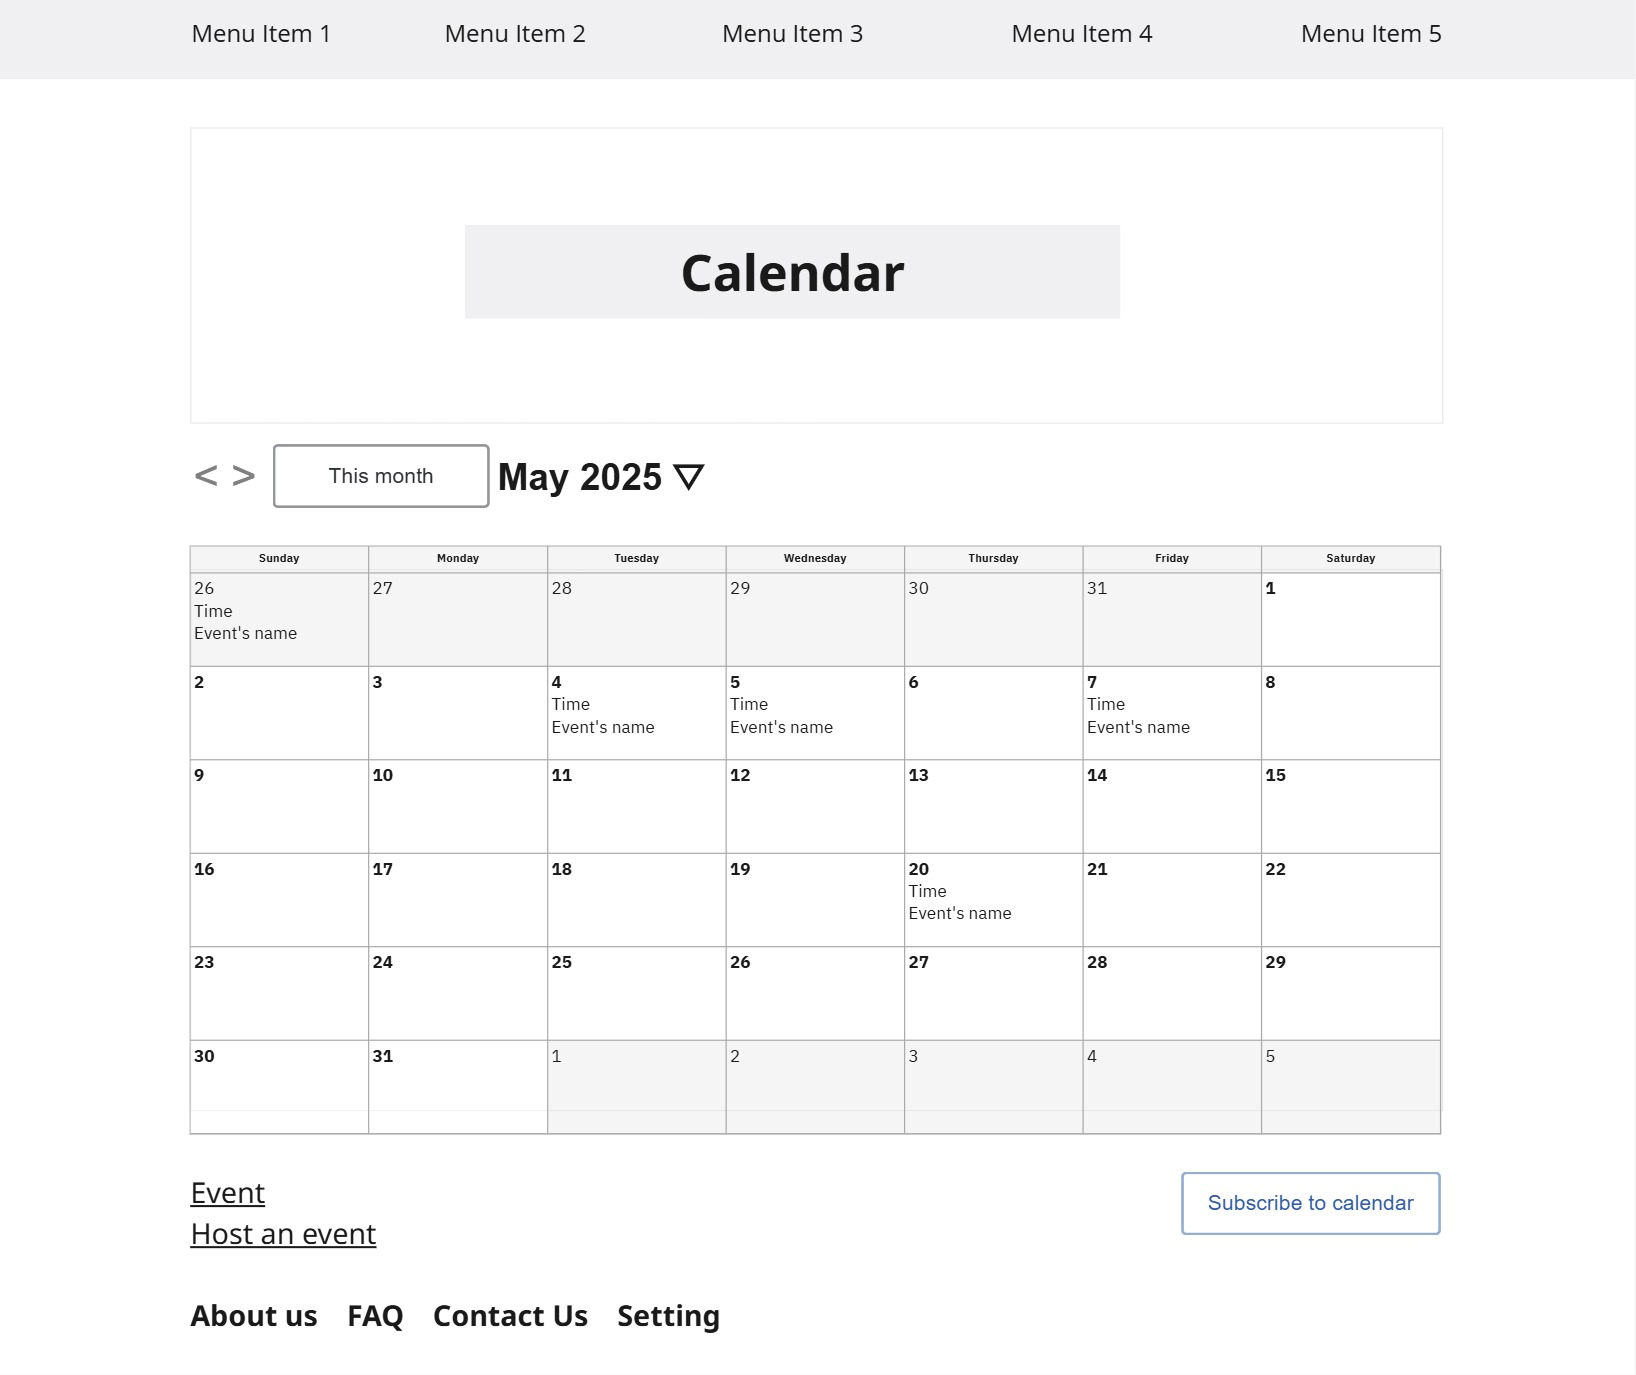
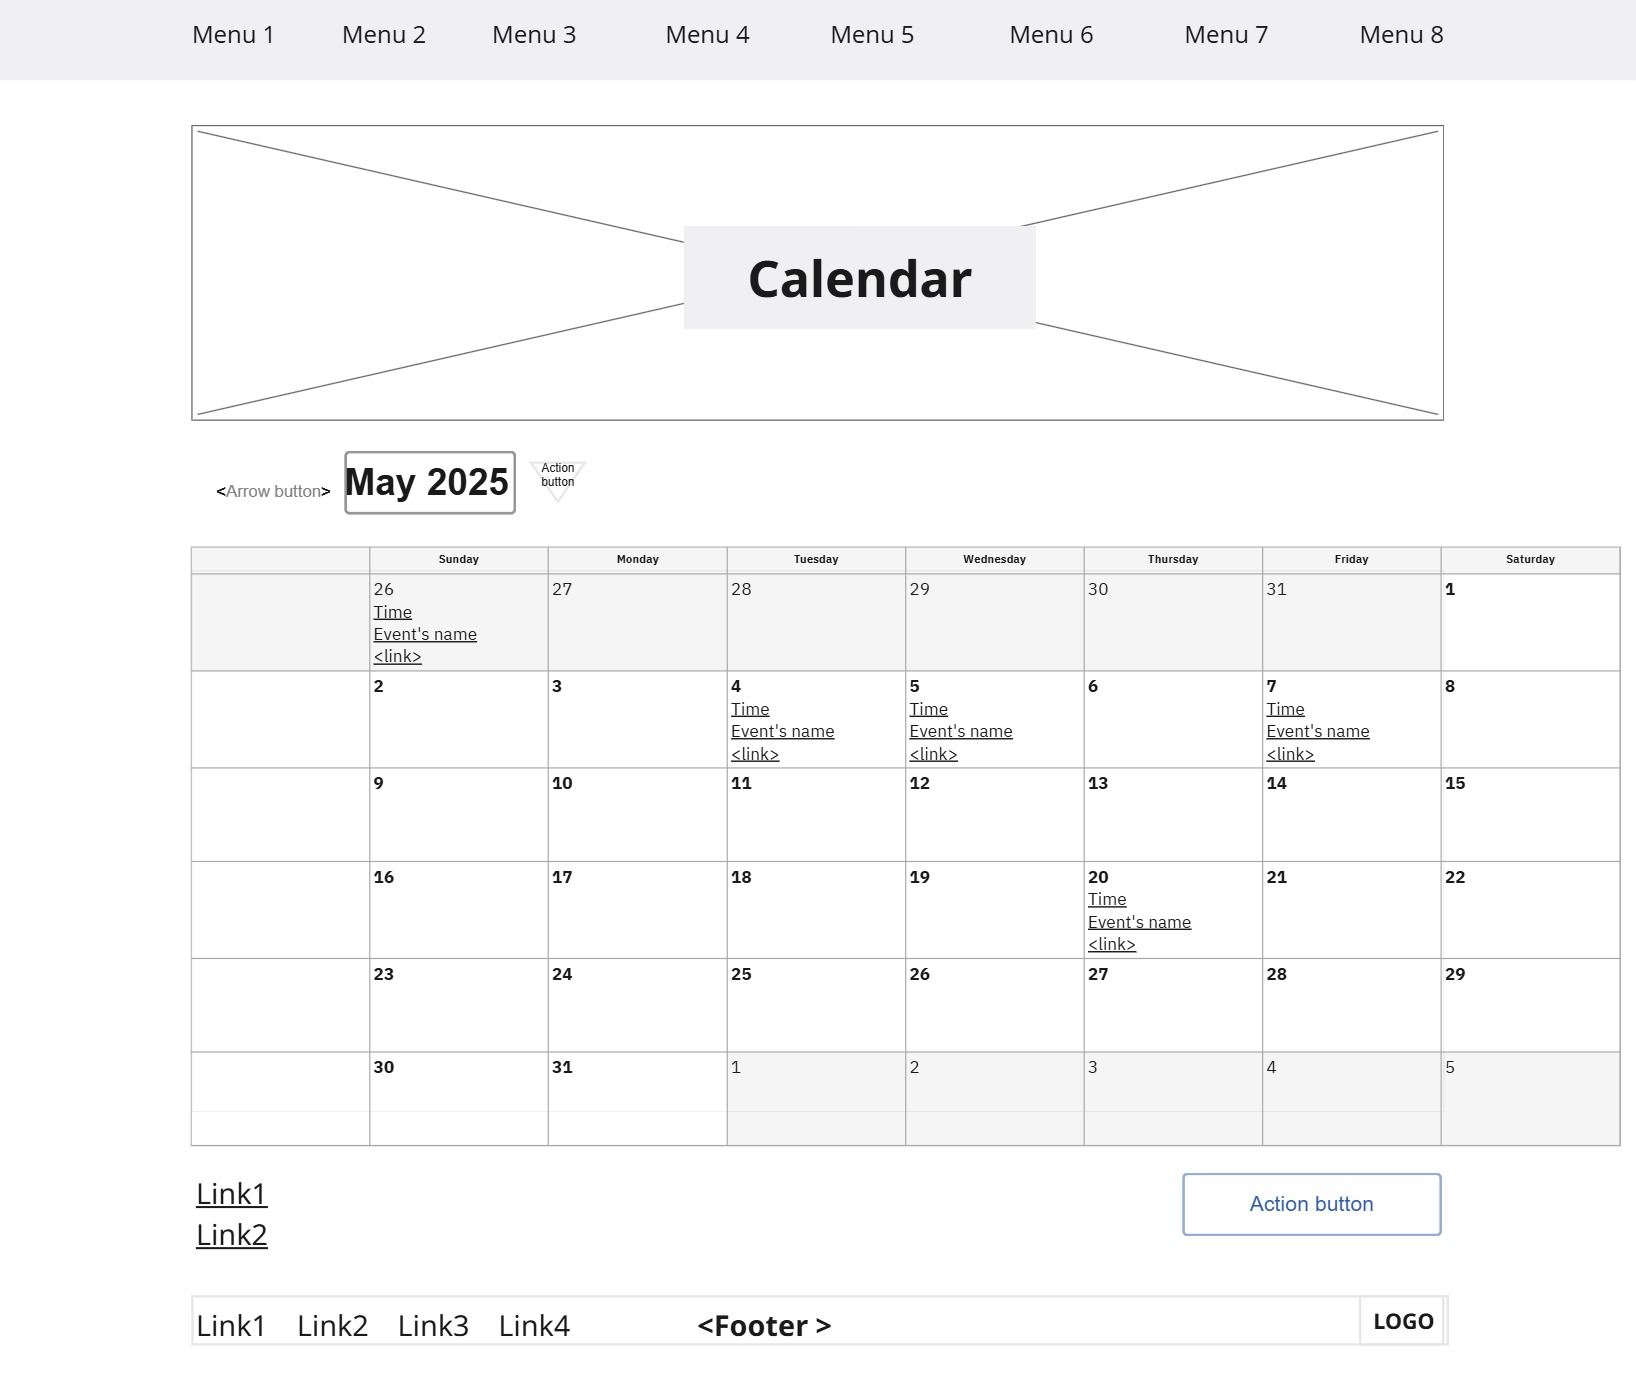
edit behavioural page
Edited some button to suit the future webpage, used hover with the subscribe button.

diff --git a/work_phase_3/visceral_design.html b/work_phase_3/visceral_design.html
@@ -85,19 +85,40 @@
                         <br />
                         <!-- Gallery Container -->
                         <article>
-                            <h2 class="m-t-3">Page Layouts</h2>
+                            <p class="topic">Page Layout</p>
 
                             <!-- Gallery element -->
                             <!-- gallery of small images -->
                             <section class="gallery m-t-3">
                                 <img
                                     src="work_space_3/assets/mobilehomepage.jpg"
-                                    alt="The homepage features an inspiring
+                                    alt="The mobile homepage features an inspiring
+                                handcraft image at the top, showcasing knitting,
+                                crochet, and embroidery. This visual element is
+                                designed to attract users and invite users to
+                                explore the website. Interactive slider
+                                arrows with hover effects allow users to
+                                navigate through the images, enhancing
+                                engagement. A centrally placed Join Now
+                                call-to-action button encourages immediate
+                                interaction and reinforces the sense of
+                                community. The layout supports easy navigation
+                                and encourages further exploration based on user
+                                interests. There are main some main links which can link to other main pages. To ensure accessibility, the color
+                                scheme provides high contrast between the
+                                background and text for improved readability.
+                                Language on the page is kept concise, universal,
+                                and easy to understand—especially for non-native
+                                English speakers."
+                                />
+                                <img
+                                    src="work_space_3/assets/DesktopHomePage.jpg"
+                                    alt="The homepage on desktop, an inspiring
                                 handcraft image at the top, showcasing knitting,
                                 crochet, and embroidery. This visual element is
                                 designed to attract users and invite them to
-                                explore the website further. Interactive slider
-                                arrows with hover effects allow users to
+                                explore the website further. The header includes Menu bar with 8 items. The Interactive slider
+                                arrows with hover effects on the hero image allow users to
                                 navigate through the images, enhancing
                                 engagement. A centrally placed Join Now
                                 call-to-action button encourages immediate
@@ -205,7 +226,7 @@
                         <!--Colour Scheme explanation-->
                         <article class="card-container">
                             <div class="cards">
-                                <h2>Colour Scheme</h2>
+                                <p class="topic">Colour Scheme</p>
 
                                 <p>
                                     This ideal colour palette was chosen to
@@ -248,7 +269,7 @@
                         <!--Typography explanation-->
                         <article class="card-container">
                             <div class="cards">
-                                <h2>Typography</h2>
+                                <p class="topic">Typography</p>
 
                                 <p>
                                     The typography of this website is designed
@@ -285,7 +306,7 @@
                         <!--Typography explanation-->
                         <article class="card-container">
                             <div class="cards">
-                                <h2>Typography Rules WCAG</h2>
+                                <p class="topic">Typography Rules WCAG</p>
                                 <br />
                                 <p></p>
 

diff --git a/work_phase_3/css/page_css/behavioural_design.css b/work_phase_3/css/page_css/behavioural_design.css
@@ -9,13 +9,13 @@
     color: #000;
     font-weight: bold;
     padding: 5px 10px;
-    background-color: #e0e8e2;
+    background-color: #3e7c95;
     border-radius: 5px;
     transition: background-color 0.3s ease;
 }
 
 .h2link a:hover {
-    background-color: rgb(175, 218, 144);
+    background-color: rgb(208, 135, 62);
 }
 
 /*form*/
@@ -23,7 +23,7 @@
     max-width: 500px;
     margin: 0 auto;
     padding: 20px;
-    background-color: #f9f9f9;
+    background-color: var(--background-color);
     border-radius: 8px;
     box-shadow: 0 4px 8px rgba(0, 0, 0, 0.1);
 }
@@ -41,11 +41,6 @@
 
 #community-form button:hover {
     background-color: #45a049;
-}
-
-.explanation {
-    font-size: 1 rem;
-    background-color: white;
 }
 
 /*button topic*/
@@ -100,10 +95,33 @@ button:disabled {
     border: 1px solid #ddd;
 }
 
+/*subscribe button*/
+.subscribe {
+    background-color: #5f9cae;
+    color: var(--text-color);
+    padding: 12px 15px;
+    border: none;
+    font-size: 1rem;
+    font-weight: bold;
+    cursor: pointer;
+    box-shadow: 0 4px 6px rgba(0, 0, 0, 0.1);
+    transition: background-color 0.3s ease, transform 0.2s ease;
+    border: 2px solid #ffffff;        
+    outline: 4px solid #000709;
+}
+
+.subscribe:hover {
+    background-color: var(--background-color);
+    transform: translateY(-2px);
+
+}
+
+/*explanation style*/
 .explanation {
     font-size: 14px;
-    color: #777;
+    color: #0a0101;
     margin-top: 8px;
+    background-color: white;
 }
 
 /*form*/
@@ -153,7 +171,7 @@ button:disabled {
 #community-form button[type="submit"] {
     margin-top: 1.5rem;
     padding: 0.75rem 1.5rem;
-    background-color: #3a6b35;
+    background-color: #426f3d;
     color: #fff;
     border: none;
     border-radius: 6px;
@@ -172,7 +190,7 @@ button:disabled {
 #form-feedback {
     margin-top: 1rem;
     font-size: 1rem;
-    color: #cc0000;
+    color: #090909;
 }
 
 /*adjust image*/
@@ -185,28 +203,23 @@ button:disabled {
 }
 
 /*Card feedback*/
-/* Community Card Styling */
 /* Styling for community cards pulled from API */
 .card.mb-3 {
     border: 2px solid #ccc;
-    border-radius: 12px;
+    border-radius: 9px;
     padding: 1rem;
     margin-bottom: 1rem;
-    background-color: #fff;
+    background-color: rgb(56, 193, 154);
+    color: var(--text-color);
     box-shadow: 0 4px 10px rgba(0, 0, 0, 0.05);
     display: flex;
     align-items: flex-start;
     gap: 1rem;
-    transition: box-shadow 0.3s ease;
-}
-
-.card.mb-3:hover {
-    box-shadow: 0 6px 16px rgba(0, 0, 0, 0.1);
 }
 
 .card.mb-3 img {
-    width: 80px;
-    height: 80px;
+    width: 50px;
+    height: 50px;
     object-fit: cover;
     border-radius: 50%;
     border: 1px solid #ddd;
@@ -219,7 +232,7 @@ button:disabled {
 .card.mb-3 h5,
 .card.mb-3 h3 {
     margin: 0;
-    font-size: 1.2rem;
+    font-size: 1rem;
     color: #333;
 }
 
@@ -227,4 +240,22 @@ button:disabled {
     margin-top: 0.5rem;
     color: #555;
     line-height: 1.4;
+}
+
+/*topic style*/
+#linkStyles,
+#Navigation,
+#Cards,
+#Icons,
+#Buttons {
+    background-color: #ffffff;
+    padding: 12px 20px;
+    display: inline-block;
+    font-weight: bold;
+    font-size: 1.5rem;
+    border-left: 6px solid #1062af;
+    box-shadow: 1px 1px 5px rgba(0, 0, 0, 0.1);
+    border-radius: 6px;
+    margin: 20px 0;
+    color: #333333;
 }

diff --git a/work_phase_3/behavioural_design.html b/work_phase_3/behavioural_design.html
@@ -189,21 +189,22 @@
 
                             <h3 id="Buttons">Interactive Buttons</h3>
                             <!--Learn more button-->
-                            <button class="learn-more-button">
-                                Learn More
+                            <br />
+                            <button class="subscribe">
+                                Subscribe to calendar
                             </button>
                             <p class="explanation">
-                                Button is designed with a large font size to
-                                makes the text easily readable and is clearly
-                                identifiable as clickable through its hover
-                                effect. The color change to green on hover
-                                indicates that the button triggers an action.
-                                The use of high contrast colors and the
-                                background change on hover help users visually
-                                recognize the button as clickable and it
-                                provides immediate visual feedback when users
-                                interact with the button. To ensure that they
-                                know their action has been acknowledged.
+                                Button is designed to makes the text easily
+                                readable and is clearly identifiable as
+                                clickable through its hover effect. The color
+                                change to white on hover indicates that the
+                                button triggers an action. The use of high
+                                contrast colors and the background change on
+                                hover help users visually recognize the button
+                                as clickable and it provides immediate visual
+                                feedback when users interact with the button. To
+                                ensure that they know their action has been
+                                acknowledged.
                             </p>
                             <!-- Submit button -->
                             <div class="button-example">

diff --git a/work_phase_3/css/page_css/visceral_design.css b/work_phase_3/css/page_css/visceral_design.css
@@ -1,13 +1,14 @@
 @import url("../component_skeletons/gallery.css");
 
 .explain-visceral:hover {
-    background-color: #b5f08c; 
-    transition: background-color 0.3s ease; 
+    background-color: #b5f08c;
+    transition: background-color 0.3s ease;
 }
 
-.cards{
-    background-color:white;
+.cards {
+    background-color: white;
 }
+
 .card:hover {
     transform: scale(1.05);
 }
@@ -36,7 +37,7 @@
     top: 50%;
     left: 50%;
     transform: translate(-50%, -50%);
-    background: rgb(237, 237, 236); 
+    background: rgb(237, 237, 236);
     color: black;
     padding: 50px 50px;
     border-radius: 8px;
@@ -51,3 +52,8 @@
     opacity: 1;
 }
 
+.topic {
+    background-color: bisque;
+    font-weight: bold;
+    font-size: 2.5rem;
+}

diff --git a/work_phase_3/css/base.css b/work_phase_3/css/base.css
@@ -5,7 +5,7 @@
     --primary-color: #e84393;
     --secondary-color: #3498db;
     --accent-color: #2c3e50;
-    --text-color: #333;
+    --text-color: #020202;
     --background-color: #f5f5f5;
 }
 
